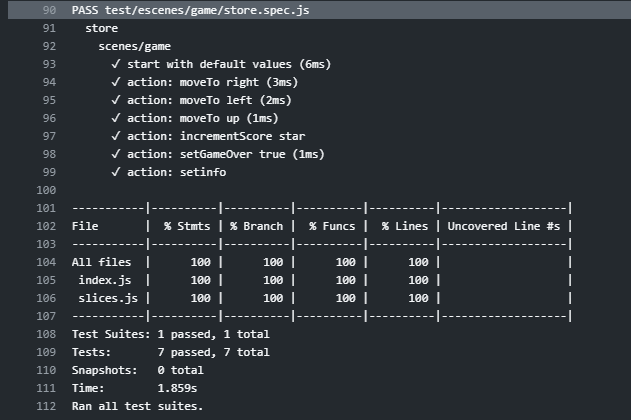
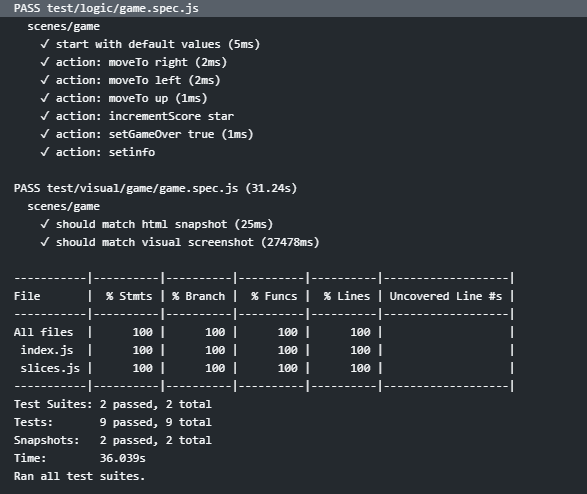
Actualizar documentación y captura de pantalla

Changed region(s): [[0.0, 0.0, 1.0, 0.9905], [0.8586, 0.619, 0.9199, 0.681], [0.8586, 0.7429, 0.9199, 0.7738]]

diff --git a/README.md b/README.md
@@ -33,18 +33,19 @@ Se ejecutan dos tests diferentes: Uno sobre la lógica y otro visual.
 
 En los tests visuales de esta versión se esperan unos segundos (menos de 30) para que el juego avance al menos hasta que todas las estrellas estén paradas. En ese instante se captura la pantalla y se comprueba si la diferencia entre esta captura y la imagen esperada es superior a un número de pixels. Solo deben ser diferentes la bola (que está en movimiento) y si el personaje ha sido alcanzado. A 800x600, con 850 es suficiente. 
 
-En local se abre una ventana en el navegador. Se puede cerrar sin que afecte a los tests. Una posible mejora sería que no se mostrara.
-
 Una vez instalada la aplicación se pueden ejecutar los tests mediante
 
 ```
 npm test
 ```
+
+En local se abre una ventana en el navegador. Se puede cerrar sin que afecte a los tests. Una posible mejora sería que no se mostrara.
+
 Si todo ha ido bien, verás una salida como la siguiente:
 
 ![Tests Ok. Coverage 100% ](https://github.com/kfern/phaser-redux/blob/master/docs/images/tests-and-coverage_1.3.2.png)
 
-El proyecto está integrado con GitHub Actions, por lo que cualquier cambio es [comprobado previamente de forma automática](https://github.com/kfern/phaser-redux/commit/f3e4a1eff6375f978ec085eabdaee0904f62a809/checks?check_suite_id=380823417#step:4:90)
+El proyecto está integrado con GitHub Actions, por lo que cualquier cambio es [comprobado previamente de forma automática](https://github.com/kfern/phaser-redux/commit/ad88aa2e0a87bbcd2d4ffd325c5807d70cc195cb/checks?check_suite_id=387834999#step:4:100)
 
 # Idioma
 El idioma oficial de la documentación y gestión del repositorio es el Español, por lo que no es necesario usar el idioma inglés para abrir o comentar un "Issue" o en los "Pull request" o hacer cualquier pregunta.
